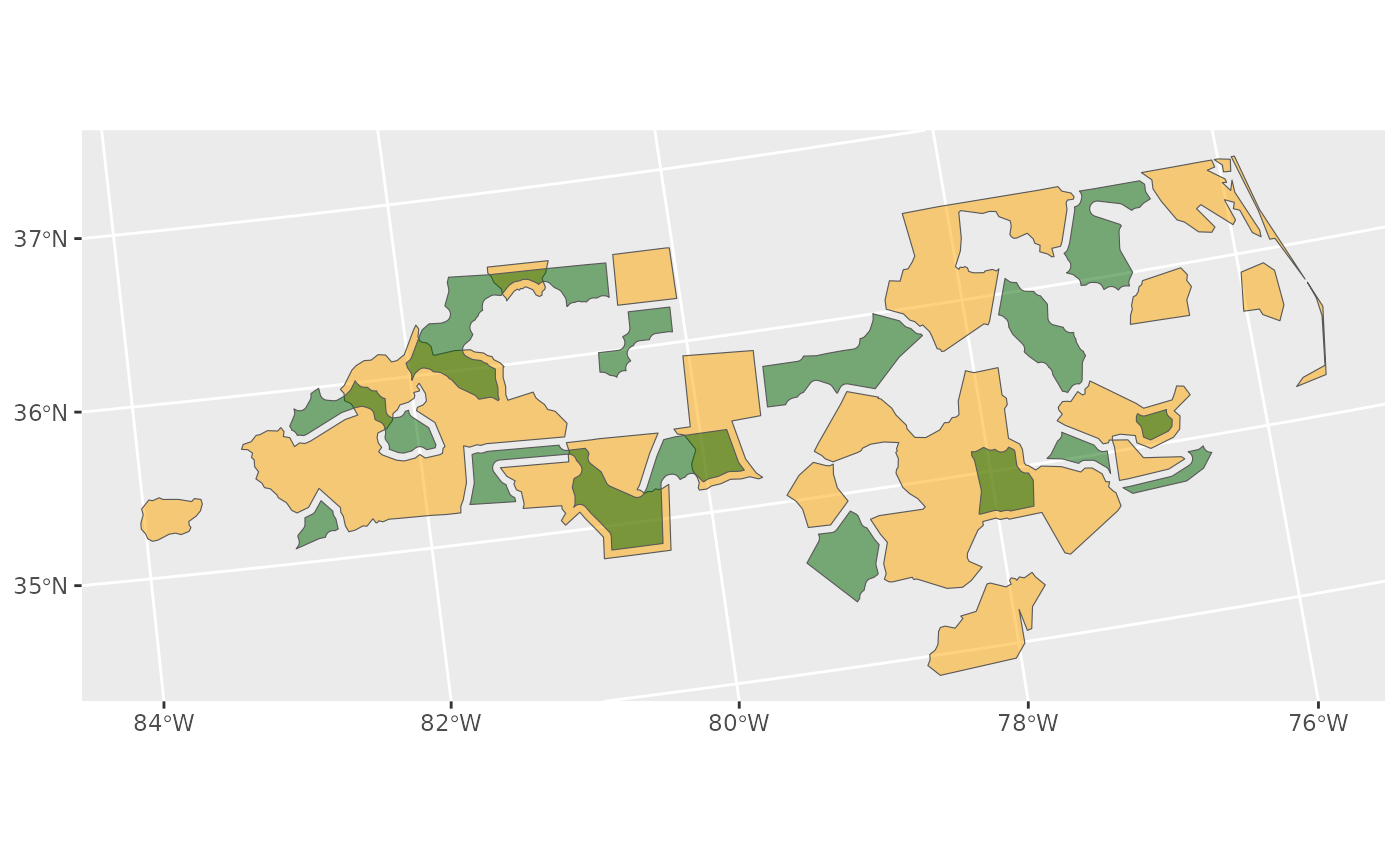
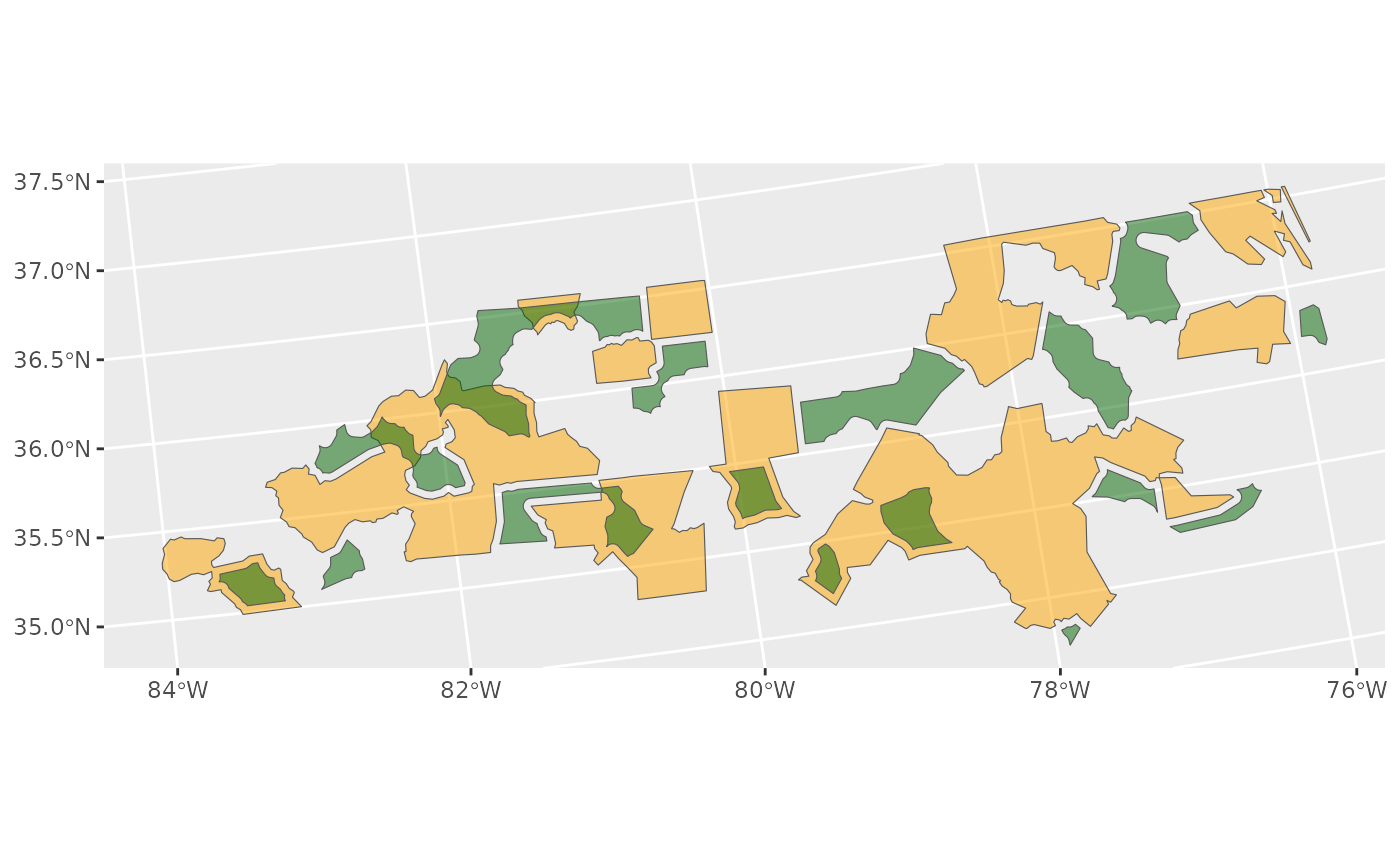
Deploying to gh-pages from @ FOR-CAST/spatialutils@0c6e5be7fdcb8062cca7c31c987c10035a10050c 🚀

diff --git a/reference/eliminate_slivers.html b/reference/eliminate_slivers.html
@@ -1,0 +1,246 @@
+<!DOCTYPE html>
+<!-- Generated by pkgdown: do not edit by hand --><html lang="en-CA"><head><meta http-equiv="Content-Type" content="text/html; charset=UTF-8"><meta charset="utf-8"><meta http-equiv="X-UA-Compatible" content="IE=edge"><meta name="viewport" content="width=device-width, initial-scale=1.0"><title>Eliminate sliver polygons by merging them into a neighbour — eliminate_slivers • spatialutils</title><!-- jquery --><script src="https://cdnjs.cloudflare.com/ajax/libs/jquery/3.7.1/jquery.min.js" integrity="sha512-v2CJ7UaYy4JwqLDIrZUI/4hqeoQieOmAZNXBeQyjo21dadnwR+8ZaIJVT8EE2iyI61OV8e6M8PP2/4hpQINQ/g==" crossorigin="anonymous" referrerpolicy="no-referrer"></script><!-- Bootstrap --><link rel="stylesheet" href="https://cdnjs.cloudflare.com/ajax/libs/twitter-bootstrap/3.4.1/css/bootstrap.min.css" integrity="sha256-bZLfwXAP04zRMK2BjiO8iu9pf4FbLqX6zitd+tIvLhE=" crossorigin="anonymous"><script src="https://cdnjs.cloudflare.com/ajax/libs/twitter-bootstrap/3.4.1/js/bootstrap.min.js" integrity="sha256-nuL8/2cJ5NDSSwnKD8VqreErSWHtnEP9E7AySL+1ev4=" crossorigin="anonymous"></script><!-- bootstrap-toc --><link rel="stylesheet" href="../bootstrap-toc.css"><script src="../bootstrap-toc.js"></script><!-- Font Awesome icons --><link rel="stylesheet" href="https://cdnjs.cloudflare.com/ajax/libs/font-awesome/5.12.1/css/all.min.css" integrity="sha256-mmgLkCYLUQbXn0B1SRqzHar6dCnv9oZFPEC1g1cwlkk=" crossorigin="anonymous"><link rel="stylesheet" href="https://cdnjs.cloudflare.com/ajax/libs/font-awesome/5.12.1/css/v4-shims.min.css" integrity="sha256-wZjR52fzng1pJHwx4aV2AO3yyTOXrcDW7jBpJtTwVxw=" crossorigin="anonymous"><!-- clipboard.js --><script src="https://cdnjs.cloudflare.com/ajax/libs/clipboard.js/2.0.6/clipboard.min.js" integrity="sha256-inc5kl9MA1hkeYUt+EC3BhlIgyp/2jDIyBLS6k3UxPI=" crossorigin="anonymous"></script><!-- headroom.js --><script src="https://cdnjs.cloudflare.com/ajax/libs/headroom/0.11.0/headroom.min.js" integrity="sha256-AsUX4SJE1+yuDu5+mAVzJbuYNPHj/WroHuZ8Ir/CkE0=" crossorigin="anonymous"></script><script src="https://cdnjs.cloudflare.com/ajax/libs/headroom/0.11.0/jQuery.headroom.min.js" integrity="sha256-ZX/yNShbjqsohH1k95liqY9Gd8uOiE1S4vZc+9KQ1K4=" crossorigin="anonymous"></script><!-- pkgdown --><link href="../pkgdown.css" rel="stylesheet"><script src="../pkgdown.js"></script><meta property="og:title" content="Eliminate sliver polygons by merging them into a neighbour — eliminate_slivers"><meta property="og:description" content='Emulates the ArcGIS Eliminate tool (the LENGTH option): small "sliver"
+polygons are removed by merging each into the neighbouring polygon with
+which it shares the longest border. This is the geometrically-sensible way
+to clean up the slivers left behind when two polygon layers that do not
+align (e.g. Landscape Units vs. Natural Resource Districts) are intersected,
+and is preferable to area-thresholding crumbs away (see intersect_clean()).'><!-- mathjax --><script src="https://cdnjs.cloudflare.com/ajax/libs/mathjax/2.7.5/MathJax.js" integrity="sha256-nvJJv9wWKEm88qvoQl9ekL2J+k/RWIsaSScxxlsrv8k=" crossorigin="anonymous"></script><script src="https://cdnjs.cloudflare.com/ajax/libs/mathjax/2.7.5/config/TeX-AMS-MML_HTMLorMML.js" integrity="sha256-84DKXVJXs0/F8OTMzX4UR909+jtl4G7SPypPavF+GfA=" crossorigin="anonymous"></script><!--[if lt IE 9]>
+<script src="https://oss.maxcdn.com/html5shiv/3.7.3/html5shiv.min.js"></script>
+<script src="https://oss.maxcdn.com/respond/1.4.2/respond.min.js"></script>
+<![endif]--></head><body data-spy="scroll" data-target="#toc">
+
+
+    <div class="container template-reference-topic">
+      <header><div class="navbar navbar-default navbar-fixed-top" role="navigation">
+  <div class="container">
+    <div class="navbar-header">
+      <button type="button" class="navbar-toggle collapsed" data-toggle="collapse" data-target="#navbar" aria-expanded="false">
+        <span class="sr-only">Toggle navigation</span>
+        <span class="icon-bar"></span>
+        <span class="icon-bar"></span>
+        <span class="icon-bar"></span>
+      </button>
+      <span class="navbar-brand">
+        <a class="navbar-link" href="../index.html">spatialutils</a>
+        <span class="version label label-default" data-toggle="tooltip" data-placement="bottom" title="">0.0.0.9007</span>
+      </span>
+    </div>
+
+    <div id="navbar" class="navbar-collapse collapse">
+      <ul class="nav navbar-nav"><li>
+  <a href="../reference/index.html">Reference</a>
+</li>
+<li>
+  <a href="../news/index.html">Changelog</a>
+</li>
+      </ul><ul class="nav navbar-nav navbar-right"><li>
+  <a href="https://github.com/FOR-CAST/spatialutils/" class="external-link">
+    <span class="fab fa-github fa-lg"></span>
+
+  </a>
+</li>
+      </ul></div><!--/.nav-collapse -->
+  </div><!--/.container -->
+</div><!--/.navbar -->
+
+
+
+      </header><div class="row">
+  <div class="col-md-9 contents">
+    <div class="page-header">
+    <h1>Eliminate sliver polygons by merging them into a neighbour</h1>
+    <small class="dont-index">Source: <a href="https://github.com/FOR-CAST/spatialutils/blob/main/R/eliminate_slivers.R" class="external-link"><code>R/eliminate_slivers.R</code></a></small>
+    <div class="hidden name"><code>eliminate_slivers.Rd</code></div>
+    </div>
+
+    <div class="ref-description">
+    <p>Emulates the ArcGIS <code>Eliminate</code> tool (the <em>LENGTH</em> option): small "sliver"
+polygons are removed by merging each into the neighbouring polygon with
+which it shares the longest border. This is the geometrically-sensible way
+to clean up the slivers left behind when two polygon layers that do not
+align (e.g. Landscape Units vs. Natural Resource Districts) are intersected,
+and is preferable to area-thresholding crumbs away (see <code><a href="intersect_clean.html">intersect_clean()</a></code>).</p>
+    </div>
+
+    <div id="ref-usage">
+    <div class="sourceCode"><pre class="sourceCode r"><code><span><span class="fu">eliminate_slivers</span><span class="op">(</span></span>
+<span>  <span class="va">x</span>,</span>
+<span>  <span class="va">threshold</span>,</span>
+<span>  keep <span class="op">=</span> <span class="cn">NULL</span>,</span>
+<span>  explode <span class="op">=</span> <span class="cn">TRUE</span>,</span>
+<span>  boundary <span class="op">=</span> <span class="cn">TRUE</span>,</span>
+<span>  overlap <span class="op">=</span> <span class="cn">FALSE</span>,</span>
+<span>  distance <span class="op">=</span> <span class="cn">TRUE</span>,</span>
+<span>  minover <span class="op">=</span> <span class="fl">0.05</span>,</span>
+<span>  maxdist <span class="op">=</span> <span class="fl">1</span>,</span>
+<span>  append <span class="op">=</span> <span class="cn">TRUE</span></span>
+<span><span class="op">)</span></span>
+<span></span>
+<span><span class="fu">desliver</span><span class="op">(</span></span>
+<span>  <span class="va">x</span>,</span>
+<span>  <span class="va">threshold</span>,</span>
+<span>  keep <span class="op">=</span> <span class="cn">NULL</span>,</span>
+<span>  explode <span class="op">=</span> <span class="cn">TRUE</span>,</span>
+<span>  boundary <span class="op">=</span> <span class="cn">TRUE</span>,</span>
+<span>  overlap <span class="op">=</span> <span class="cn">FALSE</span>,</span>
+<span>  distance <span class="op">=</span> <span class="cn">TRUE</span>,</span>
+<span>  minover <span class="op">=</span> <span class="fl">0.05</span>,</span>
+<span>  maxdist <span class="op">=</span> <span class="fl">1</span>,</span>
+<span>  append <span class="op">=</span> <span class="cn">TRUE</span></span>
+<span><span class="op">)</span></span></code></pre></div>
+    </div>
+
+    <div id="arguments">
+    <h2>Arguments</h2>
+
+
+<dl><dt id="arg-x">x<a class="anchor" aria-label="anchor" href="#arg-x"></a></dt>
+<dd><p>an <code>sf</code> or <code>SpatVector</code> polygons object. A projected CRS is
+expected, so areas and border lengths are metric; warns otherwise.</p></dd>
+
+
+<dt id="arg-threshold">threshold<a class="anchor" aria-label="anchor" href="#arg-threshold"></a></dt>
+<dd><p>sliver-area cutoff. Either a <span class="pkg">units</span> object (e.g.
+<code>units::set_units(1, "ha")</code>) or a bare numeric in square metres. Polygons
+with area <code>&lt;= threshold</code> are candidate slivers.</p></dd>
+
+
+<dt id="arg-keep">keep<a class="anchor" aria-label="anchor" href="#arg-keep"></a></dt>
+<dd><p>optional &lt;<code><a href="https://rlang.r-lib.org/reference/args_data_masking.html" class="external-link">data-masking</a></code>&gt; predicate
+evaluated against <code>x</code>'s attribute table; features for which it is <code>TRUE</code>
+are never treated as slivers, even when below <code>threshold</code>. Column names
+are used directly. Defaults to <code>NULL</code> (slivers by area alone). See
+examples.</p></dd>
+
+
+<dt id="arg-explode">explode<a class="anchor" aria-label="anchor" href="#arg-explode"></a></dt>
+<dd><p>if <code>TRUE</code> (the default), multipart polygons are split to
+single part before sliver detection, so <code>threshold</code> applies to each
+individual ring. When <code>TRUE</code>, prefer a column-based <code>keep</code> predicate over
+an external vector, since exploding changes the number/order of features.</p></dd>
+
+
+<dt id="arg-boundary-overlap-distance-minover-maxdist-append">boundary, overlap, distance, minover, maxdist, append<a class="anchor" aria-label="anchor" href="#arg-boundary-overlap-distance-minover-maxdist-append"></a></dt>
+<dd><p>passed through to
+<code><a href="https://rspatial.github.io/terra/reference/combineGeoms.html" class="external-link">terra::combineGeoms()</a></code>. The defaults implement the <em>LENGTH</em> rule:
+<code>boundary = TRUE</code> assigns each sliver to the keeper it shares the longest
+border with; <code>overlap = FALSE</code> disables overlap-area precedence;
+<code>distance</code> (within <code>maxdist</code> map units) and <code>append = TRUE</code> only affect
+slivers that share no border with any keeper (the latter keeps them rather
+than dropping them). <code>combineGeoms()</code> always uses <code>dissolve</code>/<code>erase</code> TRUE.</p></dd>
+
+</dl></div>
+    <div id="value">
+    <h2>Value</h2>
+    <p>an object of the same class as <code>x</code>, with slivers eliminated. If <code>x</code>
+has no slivers it is returned unchanged; if <strong>every</strong> feature is a sliver a
+warning is issued and <code>x</code> is returned unchanged (so the call is safe in a
+pipe).</p>
+    </div>
+    <div id="details">
+    <h2>Details</h2>
+    <p>The merge is delegated to <code><a href="https://rspatial.github.io/terra/reference/combineGeoms.html" class="external-link">terra::combineGeoms()</a></code>; the defaults here
+(<code>boundary = TRUE</code>, <code>overlap = FALSE</code>) give pure longest-shared-border
+assignment. <code>distance</code>/<code>maxdist</code> only come into play for slivers that share
+no edge with any keeper (e.g. they touch at a point, or sit in a small gap).</p>
+<p><code>x</code> is returned as the same class it was passed in as ("return the type
+that was passed"): an <code>sf</code> object in yields an <code>sf</code> object out, a
+<code>SpatVector</code> in yields a <code>SpatVector</code> out. Internally the work is done with
+<span class="pkg">terra</span>.</p>
+<p>Slivers are merged into keepers, so the <strong>attributes of the keeper are
+retained</strong> and a sliver's own attributes are discarded (as in ArcGIS
+<code>Eliminate</code>). Use <code>keep</code> to protect features that fall below <code>threshold</code>
+but should never be dissolved away.</p>
+    </div>
+    <div id="see-also">
+    <h2>See also</h2>
+    <div class="dont-index"><p><code><a href="https://rspatial.github.io/terra/reference/combineGeoms.html" class="external-link">terra::combineGeoms()</a></code>, <code><a href="intersect_clean.html">intersect_clean()</a></code>, <code><a href="st_union_analysis.html">st_union_analysis()</a></code></p></div>
+    </div>
+
+    <div id="ref-examples">
+    <h2>Examples</h2>
+    <div class="sourceCode"><pre class="sourceCode r"><code><span class="r-in"><span><span class="kw"><a href="https://rdrr.io/r/base/library.html" class="external-link">library</a></span><span class="op">(</span><span class="va"><a href="https://r-spatial.github.io/sf/" class="external-link">sf</a></span><span class="op">)</span></span></span>
+<span class="r-msg co"><span class="r-pr">#&gt;</span> Linking to GEOS 3.12.2, GDAL 3.11.4, PROJ 9.4.1; sf_use_s2() is TRUE</span>
+<span class="r-in"><span></span></span>
+<span class="r-in"><span><span class="va">sq</span> <span class="op">&lt;-</span> <span class="kw">function</span><span class="op">(</span><span class="va">xmin</span>, <span class="va">xmax</span>, <span class="va">ymin</span>, <span class="va">ymax</span>, <span class="va">id</span><span class="op">)</span> <span class="op">{</span></span></span>
+<span class="r-in"><span>  <span class="va">p</span> <span class="op">&lt;-</span> <span class="fu"><a href="https://r-spatial.github.io/sf/reference/st.html" class="external-link">st_polygon</a></span><span class="op">(</span><span class="fu"><a href="https://rdrr.io/r/base/list.html" class="external-link">list</a></span><span class="op">(</span><span class="fu"><a href="https://rdrr.io/r/base/cbind.html" class="external-link">rbind</a></span><span class="op">(</span></span></span>
+<span class="r-in"><span>    <span class="fu"><a href="https://rdrr.io/r/base/c.html" class="external-link">c</a></span><span class="op">(</span><span class="va">xmin</span>, <span class="va">ymin</span><span class="op">)</span>, <span class="fu"><a href="https://rdrr.io/r/base/c.html" class="external-link">c</a></span><span class="op">(</span><span class="va">xmax</span>, <span class="va">ymin</span><span class="op">)</span>, <span class="fu"><a href="https://rdrr.io/r/base/c.html" class="external-link">c</a></span><span class="op">(</span><span class="va">xmax</span>, <span class="va">ymax</span><span class="op">)</span>, <span class="fu"><a href="https://rdrr.io/r/base/c.html" class="external-link">c</a></span><span class="op">(</span><span class="va">xmin</span>, <span class="va">ymax</span><span class="op">)</span>, <span class="fu"><a href="https://rdrr.io/r/base/c.html" class="external-link">c</a></span><span class="op">(</span><span class="va">xmin</span>, <span class="va">ymin</span><span class="op">)</span></span></span>
+<span class="r-in"><span>  <span class="op">)</span><span class="op">)</span><span class="op">)</span></span></span>
+<span class="r-in"><span>  <span class="fu"><a href="https://r-spatial.github.io/sf/reference/sf.html" class="external-link">st_sf</a></span><span class="op">(</span>id <span class="op">=</span> <span class="va">id</span>, protected <span class="op">=</span> <span class="va">id</span> <span class="op">==</span> <span class="st">"B"</span>, geometry <span class="op">=</span> <span class="fu"><a href="https://r-spatial.github.io/sf/reference/sfc.html" class="external-link">st_sfc</a></span><span class="op">(</span><span class="va">p</span>, crs <span class="op">=</span> <span class="fl">3005</span><span class="op">)</span><span class="op">)</span></span></span>
+<span class="r-in"><span><span class="op">}</span></span></span>
+<span class="r-in"><span><span class="va">polys</span> <span class="op">&lt;-</span> <span class="fu"><a href="https://rdrr.io/r/base/cbind.html" class="external-link">rbind</a></span><span class="op">(</span></span></span>
+<span class="r-in"><span>  <span class="fu">sq</span><span class="op">(</span><span class="fl">0</span>, <span class="fl">5</span>, <span class="fl">0</span>, <span class="fl">5</span>, <span class="st">"A"</span><span class="op">)</span>, <span class="co"># 25; shares a length-5 border with the sliver</span></span></span>
+<span class="r-in"><span>  <span class="fu">sq</span><span class="op">(</span><span class="fl">0</span>, <span class="fl">1</span>, <span class="fl">6</span>, <span class="fl">16</span>, <span class="st">"B"</span><span class="op">)</span>, <span class="co"># 10; shares a length-1 border with the sliver</span></span></span>
+<span class="r-in"><span>  <span class="fu">sq</span><span class="op">(</span><span class="fl">0</span>, <span class="fl">5</span>, <span class="fl">5</span>, <span class="fl">6</span>, <span class="st">"S"</span><span class="op">)</span> <span class="co">#  5; the sliver</span></span></span>
+<span class="r-in"><span><span class="op">)</span></span></span>
+<span class="r-in"><span></span></span>
+<span class="r-in"><span><span class="co">## merge polygons &lt; 6 (map units^2) into their longest-border neighbour:</span></span></span>
+<span class="r-in"><span><span class="co">## "S" is absorbed by "A" (border length 5 &gt; 1); "B" is untouched.</span></span></span>
+<span class="r-in"><span><span class="fu">eliminate_slivers</span><span class="op">(</span><span class="va">polys</span>, threshold <span class="op">=</span> <span class="fl">6</span><span class="op">)</span></span></span>
+<span class="r-out co"><span class="r-pr">#&gt;</span> Simple feature collection with 2 features and 2 fields</span>
+<span class="r-out co"><span class="r-pr">#&gt;</span> Geometry type: POLYGON</span>
+<span class="r-out co"><span class="r-pr">#&gt;</span> Dimension:     XY</span>
+<span class="r-out co"><span class="r-pr">#&gt;</span> Bounding box:  xmin: 0 ymin: 0 xmax: 5 ymax: 16</span>
+<span class="r-out co"><span class="r-pr">#&gt;</span> Projected CRS: NAD83 / BC Albers</span>
+<span class="r-out co"><span class="r-pr">#&gt;</span>   id protected                       geometry</span>
+<span class="r-out co"><span class="r-pr">#&gt;</span> 1  A     FALSE POLYGON ((5 0, 0 0, 0 5, 0 ...</span>
+<span class="r-out co"><span class="r-pr">#&gt;</span> 2  B      TRUE POLYGON ((0 6, 1 6, 1 16, 0...</span>
+<span class="r-in"><span></span></span>
+<span class="r-in"><span><span class="co">## a units threshold works too (areas here are tiny, shown for syntax):</span></span></span>
+<span class="r-in"><span><span class="fu">eliminate_slivers</span><span class="op">(</span><span class="va">polys</span>, threshold <span class="op">=</span> <span class="fu">units</span><span class="fu">::</span><span class="fu"><a href="https://r-quantities.github.io/units/reference/units.html" class="external-link">set_units</a></span><span class="op">(</span><span class="fl">6</span>, <span class="st">"m^2"</span><span class="op">)</span><span class="op">)</span></span></span>
+<span class="r-out co"><span class="r-pr">#&gt;</span> Simple feature collection with 2 features and 2 fields</span>
+<span class="r-out co"><span class="r-pr">#&gt;</span> Geometry type: POLYGON</span>
+<span class="r-out co"><span class="r-pr">#&gt;</span> Dimension:     XY</span>
+<span class="r-out co"><span class="r-pr">#&gt;</span> Bounding box:  xmin: 0 ymin: 0 xmax: 5 ymax: 16</span>
+<span class="r-out co"><span class="r-pr">#&gt;</span> Projected CRS: NAD83 / BC Albers</span>
+<span class="r-out co"><span class="r-pr">#&gt;</span>   id protected                       geometry</span>
+<span class="r-out co"><span class="r-pr">#&gt;</span> 1  A     FALSE POLYGON ((5 0, 0 0, 0 5, 0 ...</span>
+<span class="r-out co"><span class="r-pr">#&gt;</span> 2  B      TRUE POLYGON ((0 6, 1 6, 1 16, 0...</span>
+<span class="r-in"><span></span></span>
+<span class="r-in"><span><span class="co">## protect features via a data-masking predicate on the attribute table</span></span></span>
+<span class="r-in"><span><span class="co">## ("S" is the only sliver here, but this is how you keep a small feature):</span></span></span>
+<span class="r-in"><span><span class="fu">eliminate_slivers</span><span class="op">(</span><span class="va">polys</span>, threshold <span class="op">=</span> <span class="fl">6</span>, keep <span class="op">=</span> <span class="va">protected</span><span class="op">)</span></span></span>
+<span class="r-out co"><span class="r-pr">#&gt;</span> Simple feature collection with 2 features and 2 fields</span>
+<span class="r-out co"><span class="r-pr">#&gt;</span> Geometry type: POLYGON</span>
+<span class="r-out co"><span class="r-pr">#&gt;</span> Dimension:     XY</span>
+<span class="r-out co"><span class="r-pr">#&gt;</span> Bounding box:  xmin: 0 ymin: 0 xmax: 5 ymax: 16</span>
+<span class="r-out co"><span class="r-pr">#&gt;</span> Projected CRS: NAD83 / BC Albers</span>
+<span class="r-out co"><span class="r-pr">#&gt;</span>   id protected                       geometry</span>
+<span class="r-out co"><span class="r-pr">#&gt;</span> 1  A     FALSE POLYGON ((5 0, 0 0, 0 5, 0 ...</span>
+<span class="r-out co"><span class="r-pr">#&gt;</span> 2  B      TRUE POLYGON ((0 6, 1 6, 1 16, 0...</span>
+<span class="r-in"><span><span class="fu">eliminate_slivers</span><span class="op">(</span><span class="va">polys</span>, threshold <span class="op">=</span> <span class="fl">6</span>, keep <span class="op">=</span> <span class="va">id</span> <span class="op">==</span> <span class="st">"S"</span><span class="op">)</span></span></span>
+<span class="r-out co"><span class="r-pr">#&gt;</span> Simple feature collection with 3 features and 2 fields</span>
+<span class="r-out co"><span class="r-pr">#&gt;</span> Geometry type: POLYGON</span>
+<span class="r-out co"><span class="r-pr">#&gt;</span> Dimension:     XY</span>
+<span class="r-out co"><span class="r-pr">#&gt;</span> Bounding box:  xmin: 0 ymin: 0 xmax: 5 ymax: 16</span>
+<span class="r-out co"><span class="r-pr">#&gt;</span> Projected CRS: NAD83 / BC Albers</span>
+<span class="r-out co"><span class="r-pr">#&gt;</span>   id protected                       geometry</span>
+<span class="r-out co"><span class="r-pr">#&gt;</span> 1  A     FALSE POLYGON ((0 0, 5 0, 5 5, 0 ...</span>
+<span class="r-out co"><span class="r-pr">#&gt;</span> 2  B      TRUE POLYGON ((0 6, 1 6, 1 16, 0...</span>
+<span class="r-out co"><span class="r-pr">#&gt;</span> 3  S     FALSE POLYGON ((0 5, 5 5, 5 6, 0 ...</span>
+</code></pre></div>
+    </div>
+  </div>
+  <div class="col-md-3 hidden-xs hidden-sm" id="pkgdown-sidebar">
+    <nav id="toc" data-toggle="toc" class="sticky-top"><h2 data-toc-skip>Contents</h2>
+    </nav></div>
+</div>
+
+
+      <footer><div class="copyright">
+  <p></p><p>Developed by Alex M Chubaty.</p>
+</div>
+
+<div class="pkgdown">
+  <p></p><p>Site built with <a href="https://pkgdown.r-lib.org/" class="external-link">pkgdown</a> 2.2.0.</p>
+</div>
+
+      </footer></div>
+
+
+
+
+
+
+  </body></html>
+

diff --git a/reference/index.html b/reference/index.html
@@ -51,6 +51,10 @@
           <p class="section-desc"></p>
         </th>
       </tr></tbody><tbody><tr><td>
+          <p><code><a href="eliminate_slivers.html">eliminate_slivers()</a></code> <code><a href="eliminate_slivers.html">desliver()</a></code> </p>
+        </td>
+        <td><p>Eliminate sliver polygons by merging them into a neighbour</p></td>
+      </tr><tr><td>
           <p><code><a href="intersect_clean.html">intersect_clean()</a></code> </p>
         </td>
         <td><p>Intersect and cleanup crumbs</p></td>

diff --git a/reference/spatialutils-package.html b/reference/spatialutils-package.html
@@ -62,7 +62,8 @@
     <div id="author">
     <h2>Author</h2>
     <p><strong>Maintainer</strong>: Alex M Chubaty <a href="mailto:[email redacted]">[email redacted]</a> (<a href="https://orcid.org/0000-0001-7146-8135" class="external-link">ORCID</a>)</p>
-    </div>
+<p>Authors:</p><ul><li><p>Alex M Chubaty <a href="mailto:[email redacted]">[email redacted]</a> (<a href="https://orcid.org/0000-0001-7146-8135" class="external-link">ORCID</a>)</p></li>
+</ul></div>
 
   </div>
   <div class="col-md-3 hidden-xs hidden-sm" id="pkgdown-sidebar">

diff --git a/news/index.html b/news/index.html
@@ -51,6 +51,8 @@
 <h2 class="page-header" data-toc-text="development version" id="spatialutils-development-version">spatialutils (development version)<a class="anchor" aria-label="anchor" href="#spatialutils-development-version"></a></h2>
 <ul><li>initial package version:
 <ul><li>
+<code>eliminate_slivers</code> (alias <code>desliver</code>) to remove sliver polygons by merging each into its longest-shared-border neighbour (ArcGIS <code>Eliminate</code>, LENGTH option);</li>
+<li>
 <code>intersect_clean</code> to perform intersections and cleanup crumbs;</li>
 <li>
 <code>st_erase</code> to erase features;</li>